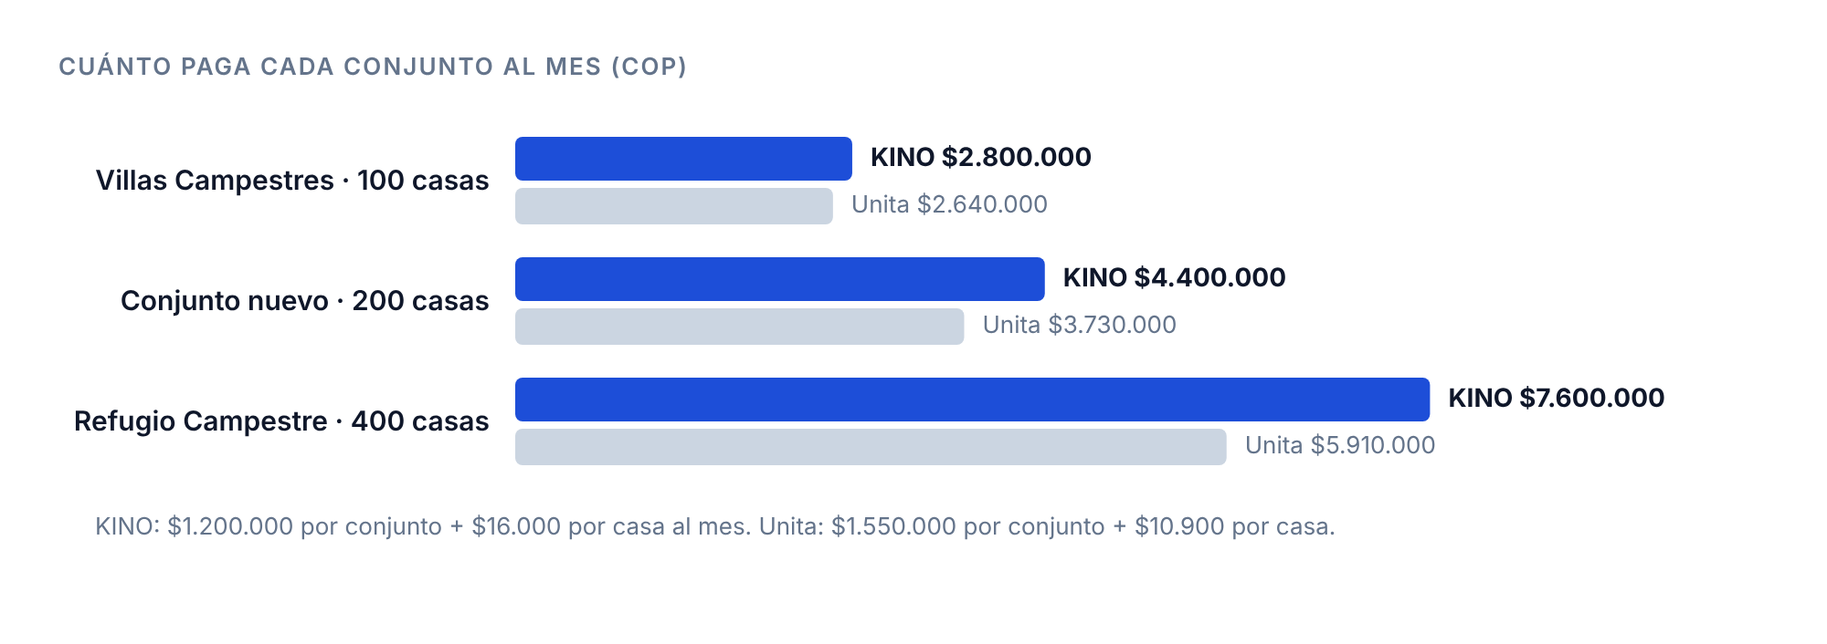
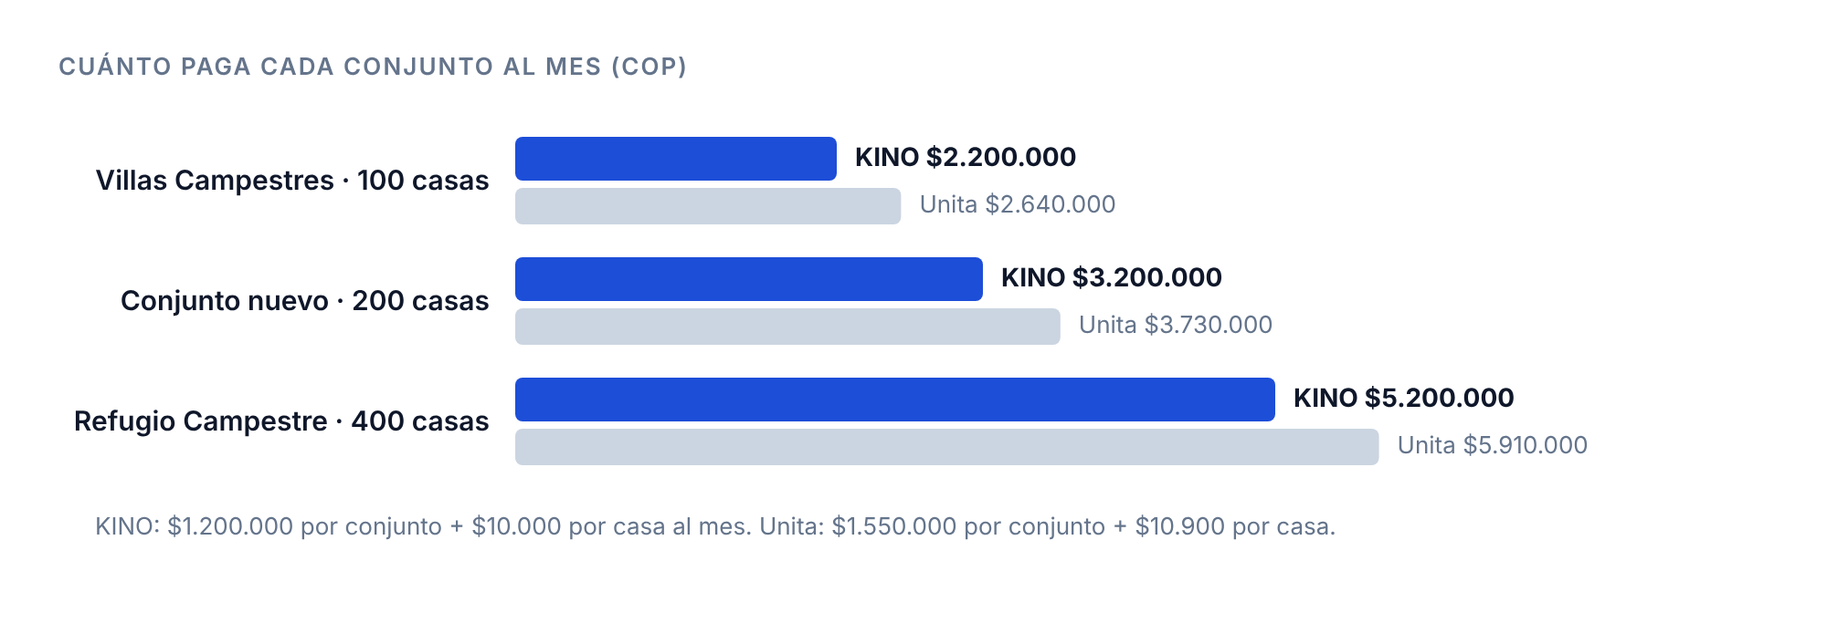
Roadmap: precio $1.200.000 + $10.000 por casa (D-014 E)
Alejandro eligió en el chat bajar la tarifa por casa a $10.000 para
quedar por debajo de Unita mientras la integración no esté probada.
Recalcula ingresos, escenarios, equilibrio y figuras.

Claude-Session: https://claude.ai/code/session_012DQwra82ZAV2m5H2koZjXH

diff --git a/eafit/2026-11-roadmap-estrategia/entrega/figuras/fuente-figuras.html b/eafit/2026-11-roadmap-estrategia/entrega/figuras/fuente-figuras.html
@@ -263,16 +263,16 @@ const P=[['A','Por casa, con mínimo',.15,.70,0],['B','Pago fijo + casa',.24,.86
 P.forEach(([k,n,rx,ry,ch])=>{const x=L+rx*W,y=T+(1-ry)*H;const col=ch==1?C.ac:ch==2?C.ac2:C.mut;el(s,'circle',{cx:x,cy:y,r:22,fill:ch?col:'#fff',stroke:col,'stroke-width':2});tx(s,x,y+1,k,{a:'middle',b:'middle',fw:700,fill:ch?'#fff':col,fs:16});const lf=k=='D';const ox=lf?-30:30,an=lf?'end':'start';tx(s,x+ox,y-4,n,{fw:700,fill:C.ink,fs:14.5,a:an});tx(s,x+ox,y+14,ch==1?'elegido desde el primer conjunto':ch==2?'elegido desde la etapa 03':'no elegido por ahora',{fs:12.5,fill:ch?col:C.mut,a:an})});})();
 
 // 10 ancla
-(()=>{const s=document.getElementById('sv10');const L=250,W=520,max=20e6;const R=[['Puesto de vigilancia 24 h',17.1e6,19.6e6,C.mut],['KINO · Refugio (400 casas)',7.6e6,0,C.ac],['KINO · Villas (100 casas)',2.8e6,0,C.ac]];
+(()=>{const s=document.getElementById('sv10');const L=250,W=520,max=20e6;const R=[['Puesto de vigilancia 24 h',17.1e6,19.6e6,C.mut],['KINO · Refugio (400 casas)',5.2e6,0,C.ac],['KINO · Villas (100 casas)',2.2e6,0,C.ac]];
 R.forEach((r,i)=>{const y=20+i*66;tx(s,L-14,y+22,r[0],{a:'end',b:'middle',fw:600,fill:C.ink});el(s,'rect',{x:L,y,width:r[1]/max*W,height:44,rx:6,fill:r[3]});if(r[2])el(s,'rect',{x:L+r[1]/max*W,y,width:(r[2]-r[1])/max*W,height:44,rx:0,fill:r[3],opacity:.4});tx(s,L+(r[2]||r[1])/max*W+10,y+22,r[2]?`$${M(r[1])} a $${M(r[2])} M`:`$${M(r[1])} M`,{b:'middle',fw:700,fill:C.ink})});
-tx(s,20,236,'Villas paga KINO con el 14 % al 16 % de lo que cuesta un puesto de vigilancia. Fuentes: Noticias RCN y El Espectador (2026).',{fs:13,fill:C.mut});})();
+tx(s,20,236,'Villas paga KINO con el 11 % al 13 % de lo que cuesta un puesto de vigilancia. Fuentes: Noticias RCN y El Espectador (2026).',{fs:13,fill:C.mut});})();
 
 // 11 precio KINO frente a Unita
-(()=>{const s=document.getElementById('sv11');const L=250,W=560,max=8.5e6;const R=[['Villas Campestres · 100 casas',100],['Conjunto nuevo · 200 casas',200],['Refugio Campestre · 400 casas',400]];
-R.forEach((r,i)=>{const y=14+i*66;const k=1.2e6+r[1]*16000,u=1.55e6+r[1]*10900;tx(s,L-14,y+25,r[0],{a:'end',b:'middle',fw:600,fill:C.ink});
+(()=>{const s=document.getElementById('sv11');const L=250,W=560,max=7e6;const R=[['Villas Campestres · 100 casas',100],['Conjunto nuevo · 200 casas',200],['Refugio Campestre · 400 casas',400]];
+R.forEach((r,i)=>{const y=14+i*66;const k=1.2e6+r[1]*10000,u=1.55e6+r[1]*10900;tx(s,L-14,y+25,r[0],{a:'end',b:'middle',fw:600,fill:C.ink});
 el(s,'rect',{x:L,y,width:k/max*W,height:24,fill:C.ac,rx:4});tx(s,L+k/max*W+10,y+12,'KINO $'+fmt(k),{b:'middle',fw:700,fill:C.ink,fs:14});
 el(s,'rect',{x:L,y:y+28,width:u/max*W,height:20,fill:C.line,rx:4});tx(s,L+u/max*W+10,y+38,'Unita $'+fmt(u),{b:'middle',fill:C.mut,fs:13})});
-tx(s,20,232,'KINO: $1.200.000 por conjunto + $16.000 por casa al mes. Unita: $1.550.000 por conjunto + $10.900 por casa.',{fs:13,fill:C.mut});})();
+tx(s,20,232,'KINO: $1.200.000 por conjunto + $10.000 por casa al mes. Unita: $1.550.000 por conjunto + $10.900 por casa.',{fs:13,fill:C.mut});})();
 
 // 12 expansion
 (()=>{const s=document.getElementById('sv12');arrowDef(s,'a12');const L=150,B=380,W=740,H=340;
@@ -331,8 +331,8 @@ parts.forEach((p,j)=>{const x=L+j*165;el(s,'rect',{x,y:226,width:14,height:14,fi
 tx(s,20,272,'El trabajo de los socios vale $3.120.000 al mes, pero hoy no sale de la caja. La alternativa barata es la del apartado 5.5 (en efectivo).',{fs:13,fill:C.mut});})();
 
 // 15 escenarios
-(()=>{const s=document.getElementById('sv15');const L=70,B=300,H=260,max=350;const sc=[['Conservador',172.5],['Base',300.1],['Optimista',331.2]];const ce=40.14,cs=109.58;
-[0,50,100,150,200,250,300,350].forEach(v=>{const y=B-v/max*H;el(s,'line',{x1:L,y1:y,x2:900,y2:y,stroke:C.soft});tx(s,L-10,y,String(v),{a:'end',b:'middle',fs:12.5,fill:C.mut})});
+(()=>{const s=document.getElementById('sv15');const L=70,B=300,H=260,max=300;const sc=[['Conservador',127.5],['Base',225.1],['Optimista',250.2]];const ce=40.14,cs=109.58;
+[0,50,100,150,200,250,300].forEach(v=>{const y=B-v/max*H;el(s,'line',{x1:L,y1:y,x2:900,y2:y,stroke:C.soft});tx(s,L-10,y,String(v),{a:'end',b:'middle',fs:12.5,fill:C.mut})});
 sc.forEach((r,i)=>{const x=L+60+i*260;const h=r[1]/max*H;el(s,'rect',{x,y:B-h,width:110,height:h,fill:i==1?C.ac:C.acs,stroke:C.ac,rx:4});tx(s,x+55,B-h-10,'$'+r[1].toFixed(1).replace('.',',')+' M',{a:'middle',fw:700,fill:C.ink});tx(s,x+55,B+22,r[0],{a:'middle',fw:i==1?700:600,fill:C.ink})});
 let lg=0;const ln=(v,c,t)=>{const y=B-v/max*H;el(s,'line',{x1:L,y1:y,x2:900,y2:y,stroke:c,'stroke-width':2.2,'stroke-dasharray':'7 5'});el(s,'line',{x1:L+lg,y1:B+48,x2:L+lg+28,y2:B+48,stroke:c,'stroke-width':2.2,'stroke-dasharray':'7 5'});tx(s,L+lg+36,B+53,t,{fs:13.5,fw:700,fill:c});lg+=330};
 ln(ce,C.ok,'Costo en efectivo: $40,1 M');ln(cs,C.ba,'Costo de sostenimiento: $109,6 M');
@@ -340,10 +340,10 @@ tx(s,L,B+84,'Los tres escenarios cubren los dos costos. El base cumple la meta d
 
 // 16 flujo acumulado
 (()=>{const s=document.getElementById('sv16');const ms=['nov','dic','ene','feb','mar','abr','may','jun','jul','ago','sep','oct','nov','dic'];
-const E=[-3981735,-3563470,-6345205,1773060,9891325,25809590,46327855,71446120,101164385,135482650,166600915,197719180,228837445,259955710];
-const S=[-7569735,-13939470,-20309205,-15778940,-11248675,-2118410,11611855,29942120,52872385,80402650,107932915,135463180,162993445,190523710];
-const L=80,T=20,W=740,H=330,min=-50e6,max=300e6;const y=v=>T+(max-v)/(max-min)*H;const x=i=>L+i*(W/13);
-[-50,0,50,100,150,200,250,300].forEach(v=>{el(s,'line',{x1:L,y1:y(v*1e6),x2:L+W,y2:y(v*1e6),stroke:v==0?C.ink:C.soft,'stroke-width':v==0?1.5:1});tx(s,L-10,y(v*1e6),String(v),{a:'end',b:'middle',fs:12.5,fill:C.mut})});
+const E=[-3981735,-3563470,-6345205,-1226940,3891325,15609590,30727855,49246120,71164385,96482650,118600915,140719180,162837445,184955710];
+const S=[-7569735,-13939470,-20309205,-18778940,-17248675,-12318410,-3988145,7742120,22872385,41402650,59932915,78463180,96993445,115523710];
+const L=80,T=20,W=740,H=330,min=-50e6,max=250e6;const y=v=>T+(max-v)/(max-min)*H;const x=i=>L+i*(W/13);
+[-50,0,50,100,150,200,250].forEach(v=>{el(s,'line',{x1:L,y1:y(v*1e6),x2:L+W,y2:y(v*1e6),stroke:v==0?C.ink:C.soft,'stroke-width':v==0?1.5:1});tx(s,L-10,y(v*1e6),String(v),{a:'end',b:'middle',fs:12.5,fill:C.mut})});
 ms.forEach((m,i)=>tx(s,x(i),T+H+20,m,{a:'middle',fs:12.5,fill:C.mut}));tx(s,x(0.5),T+H+40,'2026',{a:'middle',fs:12,fw:700,fill:C.ink});tx(s,x(8),T+H+40,'2027',{a:'middle',fs:12,fw:700,fill:C.ink});
 [[3,'Villas y Refugio pagan',14],[5,'Primer conjunto nuevo',34]].forEach(([i,t,o])=>{el(s,'line',{x1:x(i),y1:T,x2:x(i),y2:T+H,stroke:C.line,'stroke-dasharray':'4 4'});tx(s,x(i)+6,T+o,t,{fs:12.5,fw:700,fill:C.mut})});
 const path=(A,c)=>{let d='';A.forEach((v,i)=>d+=(i?' L':'M')+x(i)+','+y(v));el(s,'path',{d,stroke:c,'stroke-width':3,fill:'none'});A.forEach((v,i)=>el(s,'circle',{cx:x(i),cy:y(v),r:3.5,fill:c}))};
@@ -353,14 +353,14 @@ tx(s,x(2),y(S[2])+24,'punto más bajo: '+M(S[2]),{fs:12.5,fill:C.ba,fw:600,a:'mi
 el(s,'line',{x1:L,y1:T+H+58,x2:L+24,y2:T+H+58,stroke:C.ok,'stroke-width':3});tx(s,L+30,T+H+62,'En efectivo',{fs:13.5});el(s,'line',{x1:L+150,y1:T+H+58,x2:L+174,y2:T+H+58,stroke:C.ba,'stroke-width':3});tx(s,L+180,T+H+62,'Sostenimiento (incluye el trabajo de los socios)',{fs:13.5});})();
 
 // 17 equilibrio
-(()=>{const s=document.getElementById('sv17');const L=280,W=560,max=36e6;const R=[['Villas Campestres sola',2.9e6],['Villas + Refugio',10.9e6],['Villas + Refugio + 5 nuevos',33.9e6]];
-R.forEach((r,i)=>{const yy=20+i*64;tx(s,L-14,yy+22,r[0],{a:'end',b:'middle',fw:600,fill:C.ink});el(s,'rect',{x:L,y:yy,width:r[1]/max*W,height:44,rx:5,fill:C.ac});const lx=L+r[1]/max*W+10;tx(s,i==2?lx-20:lx,yy+22,'$'+M(r[1])+' M',{b:'middle',fw:700,fill:i==2?'#fff':C.ink,a:i==2?'end':'start'})});
+(()=>{const s=document.getElementById('sv17');const L=280,W=560,max=27e6;const R=[['Villas Campestres sola',2.3e6],['Villas + Refugio',7.9e6],['Villas + Refugio + 5 nuevos',24.9e6]];
+R.forEach((r,i)=>{const yy=20+i*64;tx(s,L-14,yy+22,r[0],{a:'end',b:'middle',fw:600,fill:C.ink});el(s,'rect',{x:L,y:yy,width:r[1]/max*W,height:44,rx:5,fill:C.ac});const lx=L+r[1]/max*W+10;tx(s,i==2?lx-20:(i==0?L+3.4e6/max*W:lx),yy+22,'$'+M(r[1])+' M',{b:'middle',fw:700,fill:i==2?'#fff':C.ink,a:i==2?'end':'start'})});
 const ln=(v,c,t,o,an)=>{const x=L+v/max*W;el(s,'line',{x1:x,y1:10,x2:x,y2:214,stroke:c,'stroke-width':2.2,'stroke-dasharray':'6 4'});tx(s,x,236+o,t,{a:an,fs:13,fw:700,fill:c})};
 ln(2781735,C.ok,'Efectivo: $2,8 M',0,'end');ln(6369735,C.ba,'Sostenimiento: $6,4 M',0,'start');
-tx(s,20,272,'Villas sola cubre la caja; con Refugio cubren también el sostenimiento. Por eso la penetración de enero es la tarea con más efecto.',{fs:13,fill:C.mut});})();
+tx(s,20,272,'Villas y Refugio juntos cubren los dos costos. Por eso la penetración de enero es la tarea con más efecto.',{fs:13,fill:C.mut});})();
 
 // 21 peso en la cuota
-(()=>{const s=document.getElementById('sv21');const L=330,W=480,max=40;const R=[['Puesto de vigilancia · Villas (100 casas)',28.5,32.7,C.mut],['Puesto de vigilancia · Refugio (400 casas)',7.1,8.2,C.mut],['KINO · Villas (100 casas)',4.7,0,C.ac],['KINO · Refugio (400 casas)',3.2,0,C.ac]];
+(()=>{const s=document.getElementById('sv21');const L=330,W=480,max=40;const R=[['Puesto de vigilancia · Villas (100 casas)',28.5,32.7,C.mut],['Puesto de vigilancia · Refugio (400 casas)',7.1,8.2,C.mut],['KINO · Villas (100 casas)',3.7,0,C.ac],['KINO · Refugio (400 casas)',2.2,0,C.ac]];
 R.forEach((r,i)=>{const y=14+i*50;tx(s,L-14,y+17,r[0],{a:'end',b:'middle',fw:600,fill:C.ink,fs:14});el(s,'rect',{x:L,y,width:r[1]/max*W,height:34,rx:5,fill:r[3]});if(r[2])el(s,'rect',{x:L+r[1]/max*W,y,width:(r[2]-r[1])/max*W,height:34,fill:r[3],opacity:.4});const v=r[2]?`${String(r[1]).replace('.',',')} % a ${String(r[2]).replace('.',',')} %`:`${String(r[1]).replace('.',',')} %`;tx(s,L+(r[2]||r[1])/max*W+10,y+17,v,{b:'middle',fw:700,fill:C.ink})});
 tx(s,20,230,'Parte de lo que recauda el conjunto con una cuota de $600.000 por casa. Vigilancia: $17,1 a $19,6 M al mes (Noticias RCN y El Espectador, 2026).',{fs:13,fill:C.mut});})();
 </script></body></html>

diff --git a/eafit/2026-11-roadmap-estrategia/entrega/KINO_Roadmap-estrategia-presupuesto.md b/eafit/2026-11-roadmap-estrategia/entrega/KINO_Roadmap-estrategia-presupuesto.md
@@ -19,8 +19,8 @@ KINO es una plataforma de control de acceso para conjuntos cerrados. Hoy opera e
 | ¿En qué orden crecemos? | Villas Campestres y Refugio Campestre en diciembre de 2026 y enero de 2027; 5 conjuntos nuevos del oriente antioqueño en el primer trimestre de 2027; después, el Valle de Aburrá |
 | ¿Cómo cobramos? | Pago fijo por conjunto + cobro por casa construida + implementación única + comisión por cada pago de la cuota en la app, desde el primer conjunto |
 | ¿Cuándo está lista la app? | En diciembre de 2026, completa y con pagos. En enero de 2027, el 80 % de las casas de Villas y Refugio la usa |
-| ¿Cuánto cobramos? | $1.200.000 al mes por conjunto + $16.000 por casa + $2.000 por pago: entre el 3,2 % y el 4,7 % de la cuota de administración |
-| ¿Cuánto cuesta y cuándo se sostiene? | $2,8 millones al mes en efectivo ($1,4 millones con la alternativa más barata). Villas y Refugio lo cubren desde febrero de 2027. Escenario base a diciembre de 2027: +$260 millones en efectivo |
+| ¿Cuánto cobramos? | $1.200.000 al mes por conjunto + $10.000 por casa + $2.000 por pago: entre el 2,2 % y el 3,7 % de la cuota de administración |
+| ¿Cuánto cuesta y cuándo se sostiene? | $2,8 millones al mes en efectivo ($1,4 millones con la alternativa más barata). Villas y Refugio lo cubren desde febrero de 2027. Escenario base a diciembre de 2027: +$185 millones en efectivo |
 
 ![Figura 1. Mapa del documento. Cada capítulo responde una pregunta.](figuras/f01.png){width=100%}
 
@@ -197,7 +197,7 @@ El residente paga la cuota de administración desde la app. El dinero va a la cu
 
 ## 2.9 Precio
 
-> **Precio.** $1.200.000 al mes por conjunto + $16.000 al mes por casa construida + $2.000 por cada pago de la cuota en la app + $3.200.000 de implementación, una vez.
+> **Precio.** $1.200.000 al mes por conjunto + $10.000 al mes por casa construida + $2.000 por cada pago de la cuota en la app + $3.200.000 de implementación, una vez.
 
 El precio se justifica con tres referencias:
 
@@ -207,19 +207,19 @@ El precio se justifica con tres referencias:
 | Techo | Lo que el residente ya paga y lo que el conjunto gasta en portería | Cuota de administración promedio de Villas y Refugio: $600.000 al mes por casa [9]. Un puesto de vigilancia 24 horas: $17,1 a $19,6 millones al mes [10] [11] |
 | Ancla | El precio de su competidor directo, Unita | $1.550.000 al mes por conjunto + $10.900 al mes por casa [5] |
 
-**KINO frente a Unita.** Los dos cobran un pago fijo más una tarifa por casa [5]. KINO cobra menos de pago fijo y más por casa, así que cuesta más que Unita en todos los tamaños:
+**KINO frente a Unita.** Los dos cobran un pago fijo más una tarifa por casa [5]. KINO cobra menos en las dos partes y queda más barato en todos los tamaños:
 
 | Conjunto | KINO al mes | Unita al mes [5] | Diferencia |
 |---|---|---|---|
-| Villas Campestres (100 casas) | $2.800.000 | $2.640.000 | +6 % |
-| Conjunto nuevo (200 casas, supuesto) | $4.400.000 | $3.730.000 | +18 % |
-| Refugio Campestre (400 casas) | $7.600.000 | $5.910.000 | +29 % |
+| Villas Campestres (100 casas) | $2.200.000 | $2.640.000 | −17 % |
+| Conjunto nuevo (200 casas, supuesto) | $3.200.000 | $3.730.000 | −14 % |
+| Refugio Campestre (400 casas) | $5.200.000 | $5.910.000 | −12 % |
 
-La diferencia se justifica solo con lo que Unita no tiene: el KEY sin cuenta para la visita y la integración probada con el hardware del conjunto (apartado 1.3). La venta tiene que mostrarlo con el caso del piloto (H3). El conjunto grande paga más, y también recibe más visitas y colaboradores (inferido).
+**Por qué $10.000 y no más (inferido).** El diferencial de KINO (el KEY sin cuenta para la visita y la integración probada con el hardware, apartado 1.3) todavía no está probado en el piloto. Una administración que lleva el gasto a la asamblea compara primero el precio. Un precio menor que el de Unita ayuda a firmar los 5 conjuntos del primer trimestre. El precio de los conjuntos nuevos se revisa con el informe del piloto (H3), cuando haya evidencia. Alejandro eligió este precio el 9 de noviembre de 2026 (D-014).
 
 ![Figura 12. Cuánto paga cada conjunto al mes con el precio de KINO.](figuras/f10.png){width=100%}
 
-**Cuánto pesa KINO en la cuota.** Con una cuota de $600.000, KINO cuesta entre el 3,2 % (Refugio) y el 4,7 % (Villas) de lo que paga cada casa. El pago fijo pesa más en el conjunto pequeño. En lo que recauda cada conjunto, un puesto de vigilancia pesa entre el 7,1 % (Refugio) y el 33 % (Villas) (figura 14).
+**Cuánto pesa KINO en la cuota.** Con una cuota de $600.000, KINO cuesta entre el 2,2 % (Refugio) y el 3,7 % (Villas) de lo que paga cada casa. El pago fijo pesa más en el conjunto pequeño. En lo que recauda cada conjunto, un puesto de vigilancia pesa entre el 7,1 % (Refugio) y el 33 % (Villas) (figura 14).
 
 ![Figura 13. KINO frente al costo de un puesto de vigilancia.](figuras/f11.png){width=100%}
 
@@ -229,8 +229,8 @@ La diferencia se justifica solo con lo que Unita no tiene: el KEY sin cuenta par
 
 **Lectura (inferido).**
 
-1. KINO pesa menos del 5 % de la cuota en los dos conjuntos del piloto.
-2. Frente a un puesto de vigilancia, Villas paga KINO con el 14 % al 16 % de lo que cuesta el puesto y Refugio con el 39 % al 44 %.
+1. KINO pesa menos del 4 % de la cuota en los dos conjuntos del piloto.
+2. Frente a un puesto de vigilancia, Villas paga KINO con el 11 % al 13 % de lo que cuesta el puesto y Refugio con el 27 % al 30 %.
 3. El costo de portería propio de Villas y Refugio todavía no está. Cuando llegue, reemplaza la cifra de mercado del techo.
 
 # 3. Expansión
@@ -318,7 +318,7 @@ Fechas fijadas por el equipo el 9 de noviembre de 2026 [9]. La fecha de H4 es un
 
 # 5. Presupuesto
 
-> **En una frase.** KINO cuesta $2,8 millones al mes en efectivo. Villas y Refugio cubren ese costo desde febrero de 2027. Con los 5 conjuntos nuevos, el escenario base cierra diciembre de 2027 con +$260 millones en efectivo. Una alternativa más barata baja el costo a $1,4 millones al mes.
+> **En una frase.** KINO cuesta $2,8 millones al mes en efectivo. Villas y Refugio cubren ese costo desde febrero de 2027. Con los 5 conjuntos nuevos, el escenario base cierra diciembre de 2027 con +$185 millones en efectivo. Una alternativa más barata baja el costo a $1,4 millones al mes.
 
 Horizonte: noviembre de 2026 a diciembre de 2027 (14 meses). Fuente de dinero: capital propio de los socios [9].
 
@@ -418,19 +418,19 @@ Cinco cambios bajan el costo en efectivo a la mitad sin quitarle al proyecto nad
 
 Precio del apartado 2.9. Villas Campestres no paga implementación porque ya está implementada. Con el 50 % de las casas pagando en la app:
 
-| Conjunto | $1.200.000 + casas × $16.000 | Comisión de pagos | Al mes |
+| Conjunto | $1.200.000 + casas × $10.000 | Comisión de pagos | Al mes |
 |---|---|---|---|
-| Villas Campestres (100 casas) | 2.800.000 | 50 × 2.000 = 100.000 | 2.900.000 |
-| Refugio Campestre (400 casas) | 7.600.000 | 200 × 2.000 = 400.000 | 8.000.000 |
-| Conjunto nuevo (200 casas) | 4.400.000 | 100 × 2.000 = 200.000 | 4.600.000 |
+| Villas Campestres (100 casas) | 2.200.000 | 50 × 2.000 = 100.000 | 2.300.000 |
+| Refugio Campestre (400 casas) | 5.200.000 | 200 × 2.000 = 400.000 | 5.600.000 |
+| Conjunto nuevo (200 casas) | 3.200.000 | 100 × 2.000 = 200.000 | 3.400.000 |
 
 Los escenarios cambian cuántos conjuntos nuevos entran, desde cuándo y cuántas casas pagan en la app. El precio es el mismo.
 
 | Escenario | Conjuntos nuevos | Pagos en la app | Comisión a dic 2027 | Ingreso a dic 2027 |
 |---|---|---|---|---|
-| Conservador | 2, en julio y septiembre de 2027 | 30 % | 4.500.000 | 172.500.000 |
-| **Base** | **5, uno por mes de abril a agosto de 2027** | **50 %** | **12.500.000** | **300.100.000** |
-| Optimista | 5, uno por mes de marzo a julio de 2027 | 80 % | 21.600.000 | 331.200.000 |
+| Conservador | 2, en julio y septiembre de 2027 | 30 % | 4.500.000 | 127.500.000 |
+| **Base** | **5, uno por mes de abril a agosto de 2027** | **50 %** | **12.500.000** | **225.100.000** |
+| Optimista | 5, uno por mes de marzo a julio de 2027 | 80 % | 21.600.000 | 250.200.000 |
 
 Los tres escenarios incluyen a Villas y Refugio desde febrero de 2027 y una implementación de $3.200.000 por cada conjunto nuevo y por Refugio.
 
@@ -440,22 +440,22 @@ Los tres escenarios incluyen a Villas y Refugio desde febrero de 2027 y una impl
 
 | Escenario | Ingresos | En efectivo | Sostenimiento |
 |---|---|---|---|
-| Conservador | 172.500.000 | +132.355.710 | +72.523.710 |
-| **Base** | **300.100.000** | **+259.955.710** | **+190.523.710** |
-| Optimista | 331.200.000 | +291.055.710 | +221.623.710 |
+| Conservador | 127.500.000 | +87.355.710 | +27.523.710 |
+| **Base** | **225.100.000** | **+184.955.710** | **+115.523.710** |
+| Optimista | 250.200.000 | +210.055.710 | +140.623.710 |
 
-Sin impuestos. Con la alternativa más barata, el escenario base sube a +$279,7 millones en efectivo.
+Sin impuestos. Con la alternativa más barata, el escenario base sube a +$204,7 millones en efectivo.
 
-**Cuánto capital ponen los socios.** La figura 19 muestra el acumulado del escenario base mes a mes. La caja toca su punto más bajo en enero de 2027: −$6,3 millones, que pagan los socios con capital propio. Desde febrero de 2027 la caja queda en positivo. El sostenimiento llega a −$20,3 millones en enero y queda en positivo desde mayo de 2027.
+**Cuánto capital ponen los socios.** La figura 19 muestra el acumulado del escenario base mes a mes. La caja toca su punto más bajo en enero de 2027: −$6,3 millones, que pagan los socios con capital propio. Desde marzo de 2027 la caja queda en positivo. El sostenimiento llega a −$20,3 millones en enero y queda en positivo desde julio de 2027.
 
 ![Figura 19. Escenario base: resultado acumulado mes a mes.](figuras/f16.png){width=100%}
 
 | Tramo | Ingreso al mes | Qué pasa |
 |---|---|---|
 | nov 2026 a ene 2027 | 0, más la implementación de Refugio en diciembre | Desarrollo y piloto. La caja baja a −$6,3 millones |
-| feb y mar 2027 | 10.900.000 (Villas + Refugio) | La caja se recupera |
-| abr a ago 2027 | De 15.500.000 a 33.900.000 | Entra un conjunto nuevo cada mes |
-| sep a dic 2027 | 33.900.000 | Siete conjuntos pagan |
+| feb y mar 2027 | 7.900.000 (Villas + Refugio) | La caja se recupera |
+| abr a ago 2027 | De 11.300.000 a 24.900.000 | Entra un conjunto nuevo cada mes |
+| sep a dic 2027 | 24.900.000 | Siete conjuntos pagan |
 
 Si Figma Enterprise se paga por adelantado, la caja necesita unos $7,1 millones más al inicio.
 
@@ -465,15 +465,15 @@ Si Figma Enterprise se paga por adelantado, la caja necesita unos $7,1 millones 
 
 | Conjuntos que pagan | Ingreso al mes | Cubre el efectivo (2.781.735) | Cubre el sostenimiento (6.369.735) |
 |---|---|---|---|
-| Villas Campestres sola | 2.900.000 | Sí, con +118.265 | No: 46 % |
-| Villas + Refugio | 10.900.000 | Sí | Sí, con +4.530.265 |
-| Villas + Refugio + 5 nuevos | 33.900.000 | Sí | Sí, con +27.530.265 |
+| Villas Campestres sola | 2.300.000 | No: 83 % | No: 36 % |
+| Villas + Refugio | 7.900.000 | Sí | Sí, con +1.530.265 |
+| Villas + Refugio + 5 nuevos | 24.900.000 | Sí | Sí, con +18.530.265 |
 
 **Lectura (inferido).**
 
-1. Villas sola ya cubre la caja ($2,9 millones frente a $2,8 millones), pero no el trabajo de los socios.
+1. Villas sola no cubre la caja con las herramientas actuales ($2,3 millones frente a $2,8 millones). Con la alternativa más barata ($1,4 millones), sí.
 2. Villas y Refugio juntos cubren el sostenimiento completo desde febrero de 2027. Por eso la penetración de enero (apartado 2.4) es la tarea con más efecto en el presupuesto.
-3. La comisión de pagos suma $12,5 millones en el escenario base, el 4 % del ingreso. Su valor está en que el residente vuelve a la app cada mes, no en el ingreso.
+3. La comisión de pagos suma $12,5 millones en el escenario base, el 6 % del ingreso. Su valor está en que el residente vuelve a la app cada mes, no en el ingreso.
 4. El riesgo mayor es la capacidad: implementar 5 conjuntos entre abril y agosto pide el doble de horas de hoy.
 
 ## 5.10 Fuera del presupuesto
@@ -513,7 +513,7 @@ No hay líneas base todavía. Cada indicador dice cómo se mide y una meta inici
 | Técnica | Errores de sincronización | Errores por semana | Umbral para pasar a la etapa 02 |
 | Negocio | Embudo comercial | Conjuntos contactados, propuestas y contratos | 5 contratos firmados al 31 de marzo de 2027 |
 | Negocio | Tasa de cierre | Propuestas aceptadas ÷ enviadas | Revisar al llegar a 5 propuestas |
-| Negocio | Ingreso recurrente mensual | Σ ($1.200.000 + casas × $16.000) + comisión de pagos | $10,9 millones con Villas + Refugio; $33,9 millones con 7 conjuntos |
+| Negocio | Ingreso recurrente mensual | Σ ($1.200.000 + casas × $10.000) + comisión de pagos | $7,9 millones con Villas + Refugio; $24,9 millones con 7 conjuntos |
 | Negocio | Costo de adquisición | Gasto comercial ÷ conjuntos firmados | Línea base con el primer cierre |
 | Negocio | Recuperación de la implementación | Costo de implementación ÷ margen mensual del conjunto | Línea base con Refugio |
 

diff --git a/kino/canon/decisiones.md b/kino/canon/decisiones.md
@@ -246,11 +246,11 @@ Cambia el momento de la comisión de pagos de D-010. Alejandro: «El D también 
 
 **Trazabilidad y HikCentral.** El curador trabaja sobre la forma de trabajar con IA, no sobre el producto. No toca la lógica de ingresos, el Pase ni la sincronización con HikCentral. Cada cambio queda en un PR con su informe y su corrida de Actions.
 
-## D-014 · Precio: pago fijo por conjunto + cobro por casa · APROBADA (Alejandro, 9 nov 2026) · opción D
+## D-014 · Precio: pago fijo por conjunto + cobro por casa · APROBADA (Alejandro, 9 nov 2026) · opción E
 
 **Número.** Se propuso como D-013 y se renumeró a D-014 porque D-013 ya existía en `main` (curador semanal). El comentario de aprobación dice «D-013».
 
-**Historia.** Alejandro aprobó primero la opción A en el [PR #28](https://github.com/Amonsalvem/kino/pull/28#issuecomment-6743415369). El 9 nov 2026, en el chat del proyecto, la cambió: «Prefiero el modelo de pago fijo, más cobro por casa, más la comisión de pago» y «Pago mínimo $1.200.000 + $16.000». Queda la opción D.
+**Historia.** Alejandro aprobó primero la opción A en el [PR #28](https://github.com/Amonsalvem/kino/pull/28#issuecomment-6743415369). El 9 nov 2026, en el chat del proyecto, la cambió: «Prefiero el modelo de pago fijo, más cobro por casa, más la comisión de pago» y «Pago mínimo $1.200.000 + $16.000» (opción D). Después de ver que D dejaba a KINO más caro que Unita, eligió la opción E en la tarjeta del chat.
 
 Precisa la parte de cobro mensual de D-010 (piso por conjunto + cobro por casa). Siguen igual la implementación única y la comisión de pagos de $2.000 (D-012).
 
@@ -259,8 +259,9 @@ Precisa la parte de cobro mensual de D-010 (piso por conjunto + cobro por casa).
 | A | $16.000 por casa construida, mínimo $1.200.000 por conjunto | $1.600.000 | $6.400.000 | El «mínimo» se puede leer como una barrera de entrada |
 | B | Pago fijo $1.000.000 + $8.000 por casa | $1.800.000 | $4.200.000 | Villas y Refugio apenas cubren el sostenimiento |
 | C | Igual a Unita: $1.550.000 + $10.900 por casa | $2.640.000 | $5.910.000 | Se lee como copia del competidor |
-| **D (elegida)** | **Pago fijo $1.200.000 + $16.000 por casa** | **$2.800.000** | **$7.600.000** | **Entre 6 % y 29 % más caro que Unita** |
+| D | Pago fijo $1.200.000 + $16.000 por casa | $2.800.000 | $7.600.000 | Entre 6 % y 29 % más caro que Unita, con un diferencial todavía sin probar |
+| **E (elegida)** | **Pago fijo $1.200.000 + $10.000 por casa** | **$2.200.000** | **$5.200.000** | **Menos ingreso que D: $225 M frente a $300 M en el escenario base a dic 2027** |
 
-**Por qué.** Con la opción D, Villas sola cubre el costo en efectivo y Villas y Refugio juntos cubren el sostenimiento con $4,5 millones de sobra al mes. Con una cuota de administración de $600.000, KINO pesa entre el 3,2 % (Refugio) y el 4,7 % (Villas) de lo que paga cada casa. El precio más alto que Unita se sostiene solo si la venta muestra lo que Unita no tiene: el KEY sin cuenta para la visita y la integración probada con el hardware del conjunto.
+**Por qué.** KINO queda entre 12 % y 17 % más barato que Unita en todos los tamaños mientras la integración con el hardware no esté probada. Villas y Refugio juntos dejan $7,9 millones al mes y cubren el sostenimiento ($6,4 millones). Con una cuota de $600.000, KINO pesa entre el 2,2 % (Refugio) y el 3,7 % (Villas) de lo que paga cada casa. El precio de los conjuntos nuevos se revisa con el informe del piloto (H3).
 
 **Trazabilidad y HikCentral.** No cambia el KEY, la autoridad del residente ni la sincronización.
